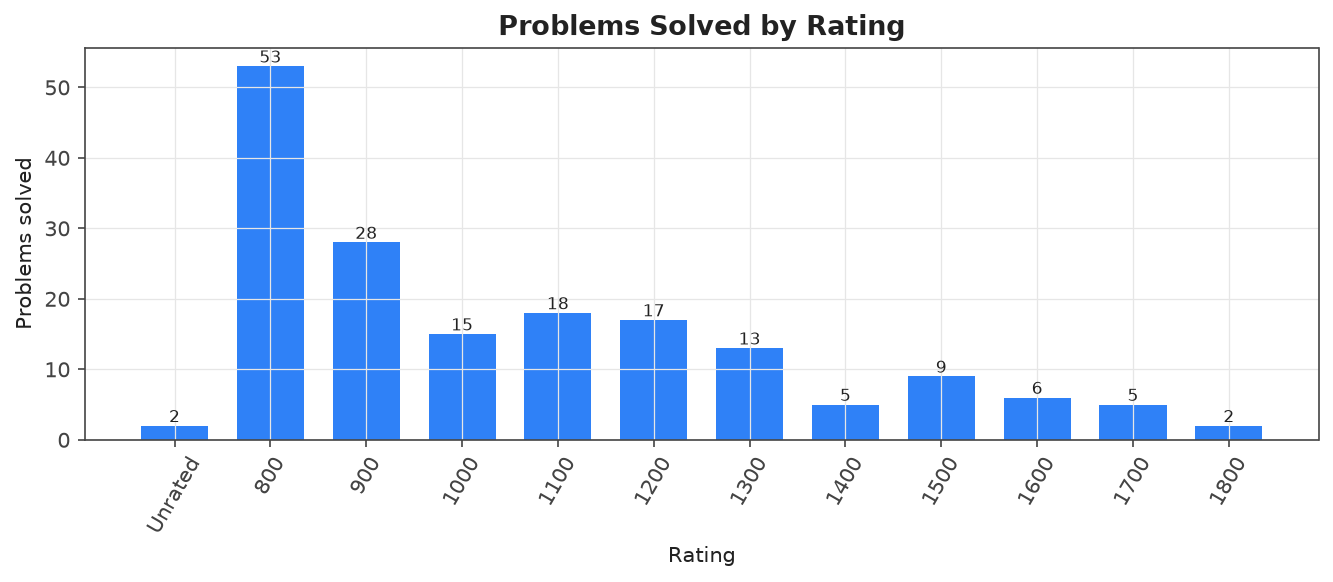
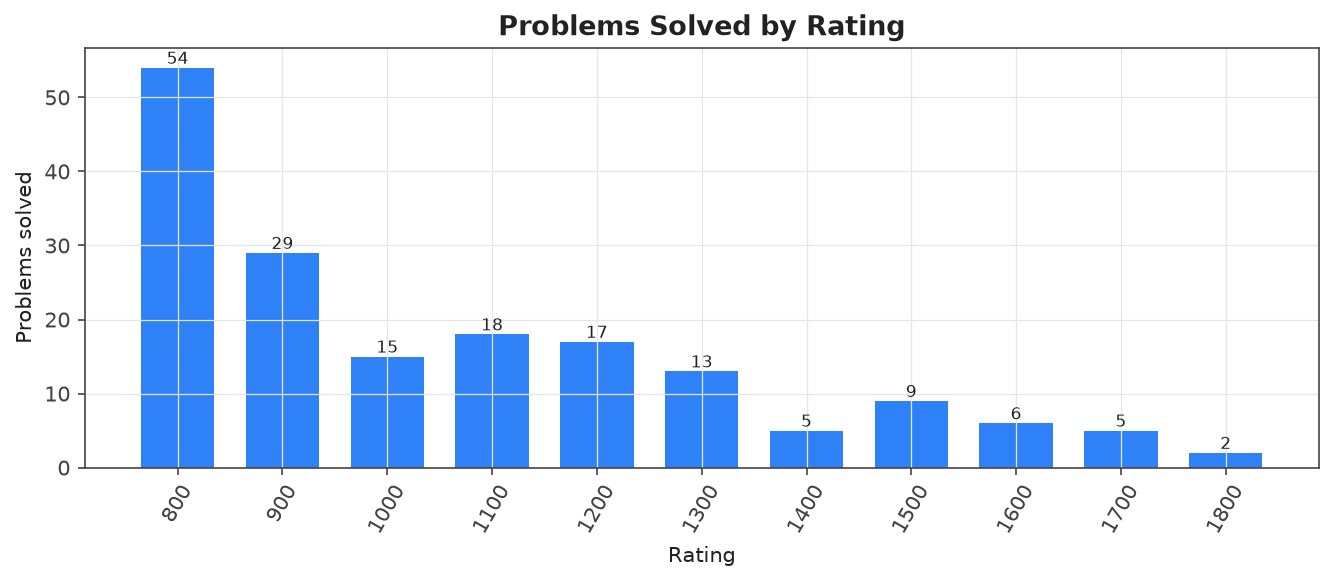
Sync: refresh analytics (rating/streak update, no new problems)

diff --git a/README.md b/README.md
@@ -37,8 +37,8 @@ Auto-generated archive of accepted Codeforces submissions for **[om_sharma_](htt
 
 | Rating | Count |
 |---|---|
-| 0800 | 53 |
-| 0900 | 28 |
+| 0800 | 54 |
+| 0900 | 29 |
 | 1000 | 15 |
 | 1100 | 18 |
 | 1200 | 17 |
@@ -48,7 +48,6 @@ Auto-generated archive of accepted Codeforces submissions for **[om_sharma_](htt
 | 1600 | 6 |
 | 1700 | 5 |
 | 1800 | 2 |
-| Unrated | 2 |
 
 ### By tag
 
@@ -87,8 +86,6 @@ Auto-generated archive of accepted Codeforces submissions for **[om_sharma_](htt
 
 | # | Problem | Rating | Tags | Code | Link |
 |---|---|---|---|---|---|
-| 2258A | [Odd Eraser](problems/math/Unrated_2258A-Odd-Eraser) | ? | `math` | — | [CF](https://codeforces.com/contest/2258/problem/A) |
-| 2258B1 | [Carrot Chopdown (Easy Version)](problems/brute-force/Unrated_2258B1-Carrot-Chopdown-Easy-Version) | ? | `brute force`, `games`, `math` | — | [CF](https://codeforces.com/contest/2258/problem/B1) |
 | 4A | [Watermelon](problems/brute-force/0800_4A-Watermelon) | 800 | `brute force`, `math` | — | [CF](https://codeforces.com/contest/4/problem/A) |
 | 14A | [Letter](problems/implementation/0800_14A-Letter) | 800 | `implementation` | — | [CF](https://codeforces.com/contest/14/problem/A) |
 | 71A | [Way Too Long Words](problems/strings/0800_71A-Way-Too-Long-Words) | 800 | `strings` | — | [CF](https://codeforces.com/contest/71/problem/A) |
@@ -142,6 +139,7 @@ Auto-generated archive of accepted Codeforces submissions for **[om_sharma_](htt
 | 2256A | [Three Numbers on the Blackboard](problems/math/0800_2256A-Three-Numbers-on-the-Blackboard) | 800 | `math`, `sortings` | — | [CF](https://codeforces.com/contest/2256/problem/A) |
 | 2257A | [Creating Abbreviations](problems/brute-force/0800_2257A-Creating-Abbreviations) | 800 | `brute force`, `strings` | — | [CF](https://codeforces.com/contest/2257/problem/A) |
 | 2257B | [Gigantomachy](problems/math/0800_2257B-Gigantomachy) | 800 | `math` | — | [CF](https://codeforces.com/contest/2257/problem/B) |
+| 2258A | [Odd Eraser](problems/math/0800_2258A-Odd-Eraser) | 800 | `math` | — | [CF](https://codeforces.com/contest/2258/problem/A) |
 | 337A | [Puzzles](problems/greedy/0900_337A-Puzzles) | 900 | `greedy` | — | [CF](https://codeforces.com/contest/337/problem/A) |
 | 1374B | [Multiply by 2, divide by 6](problems/math/0900_1374B-Multiply-by-2-divide-by-6) | 900 | `math` | — | [CF](https://codeforces.com/contest/1374/problem/B) |
 | 1440B | [Sum of Medians](problems/greedy/0900_1440B-Sum-of-Medians) | 900 | `greedy`, `math` | — | [CF](https://codeforces.com/contest/1440/problem/B) |
@@ -170,6 +168,7 @@ Auto-generated archive of accepted Codeforces submissions for **[om_sharma_](htt
 | 2246B | [ezraft and Array](problems/constructive-algorithms/0900_2246B-ezraft-and-Array) | 900 | `constructive algorithms`, `number theory` | — | [CF](https://codeforces.com/contest/2246/problem/B) |
 | 2247B | [Yet Another Constructive](problems/constructive-algorithms/0900_2247B-Yet-Another-Constructive) | 900 | `constructive algorithms` | — | [CF](https://codeforces.com/contest/2247/problem/B) |
 | 2254B | [Evanescent](problems/implementation/0900_2254B-Evanescent) | 900 | `implementation`, `strings`, `two pointers` | — | [CF](https://codeforces.com/contest/2254/problem/B) |
+| 2258B1 | [Carrot Chopdown (Easy Version)](problems/brute-force/0900_2258B1-Carrot-Chopdown-Easy-Version) | 900 | `brute force`, `games`, `math` | — | [CF](https://codeforces.com/contest/2258/problem/B1) |
 | 1A | [Theatre Square](problems/math/1000_1A-Theatre-Square) | 1000 | `math` | — | [CF](https://codeforces.com/contest/1/problem/A) |
 | 14B | [Young Photographer](problems/implementation/1000_14B-Young-Photographer) | 1000 | `implementation` | — | [CF](https://codeforces.com/contest/14/problem/B) |
 | 43A | [Football](problems/strings/1000_43A-Football) | 1000 | `strings` | — | [CF](https://codeforces.com/contest/43/problem/A) |
